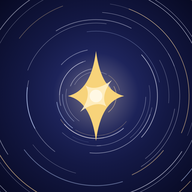
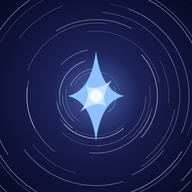
北極星の光を青に変更
Claude-Session: https://claude.ai/code/session_01WZXrLgWkbtHWYp83hoaQAh

diff --git a/sw.js b/sw.js
@@ -1,6 +1,6 @@
 // 星空時間：オフラインでも開けるようにするしくみ
 // アプリを更新したら、下の VERSION の数字を1つ上げてください（古い保存を入れかえます）。
-const VERSION = 'hoshizora-v2';
+const VERSION = 'hoshizora-v3';
 const FILES = ["./", "index.html", "manifest.webmanifest", "icons/icon-192.png", "icons/icon-512.png", "icons/icon-maskable-512.png", "icons/apple-touch-icon.png", "icons/favicon.png", "cards/a01.jpg", "cards/a02.jpg", "cards/a03.jpg", "cards/a04.jpg", "cards/a05.jpg", "cards/a06.jpg", "cards/a07.jpg", "cards/a08.jpg", "cards/z01.jpg", "cards/z02.jpg", "cards/z03.jpg", "cards/z04.jpg", "cards/z05.jpg", "cards/z06.jpg", "cards/z07.jpg", "cards/z08.jpg", "cards/z09.jpg", "cards/z10.jpg", "cards/z11.jpg", "cards/z12.jpg", "cards/z13.jpg", "cards/z14.jpg", "cards/z15.jpg", "cards/z16.jpg", "cards/z17.jpg", "cards/z18.jpg", "cards/z19.jpg", "cards/z20.jpg", "cards/z21.jpg", "cards/z22.jpg", "cards/z23.jpg", "cards/z24.jpg", "cards/z25.jpg", "cards/z26.jpg", "cards/z27.jpg", "cards/z28.jpg", "cards/z29.jpg", "cards/z30.jpg", "cards/z31.jpg", "cards/z32.jpg", "cards/z33.jpg", "cards/z34.jpg", "cards/z35.jpg", "cards/z36.jpg", "cards/z37.jpg", "cards/z38.jpg", "cards/z39.jpg", "cards/z40.jpg", "cards/z41.jpg", "cards/z42.jpg", "cards/z43.jpg", "cards/z44.jpg", "cards/z45.jpg", "cards/z46.jpg", "cards/z47.jpg", "cards/z48.jpg", "cards/z49.jpg", "cards/z50.jpg", "cards/z51.jpg", "cards/z52.jpg", "cards/z53.jpg", "cards/z54.jpg", "cards/z55.jpg", "cards/z56.jpg", "cards/z57.jpg", "cards/z58.jpg", "cards/z59.jpg", "cards/z60.jpg", "cards/z61.jpg", "cards/z62.jpg", "cards/z63.jpg", "cards/z64.jpg", "cards/z65.jpg", "cards/z66.jpg", "cards/z67.jpg", "cards/z68.jpg", "cards/z69.jpg", "cards/z70.jpg", "cards/z71.jpg", "cards/z72.jpg", "cards/z73.jpg", "cards/z74.jpg", "cards/z75.jpg", "cards/z76.jpg", "cards/z77.jpg", "cards/z78.jpg", "cards/z79.jpg", "cards/z80.jpg", "cards/z81.jpg", "cards/z82.jpg", "cards/z83.jpg", "cards/z84.jpg", "cards/z85.jpg", "cards/z86.jpg", "cards/z87.jpg", "cards/z88.jpg"];
 
 self.addEventListener('install', e => {
